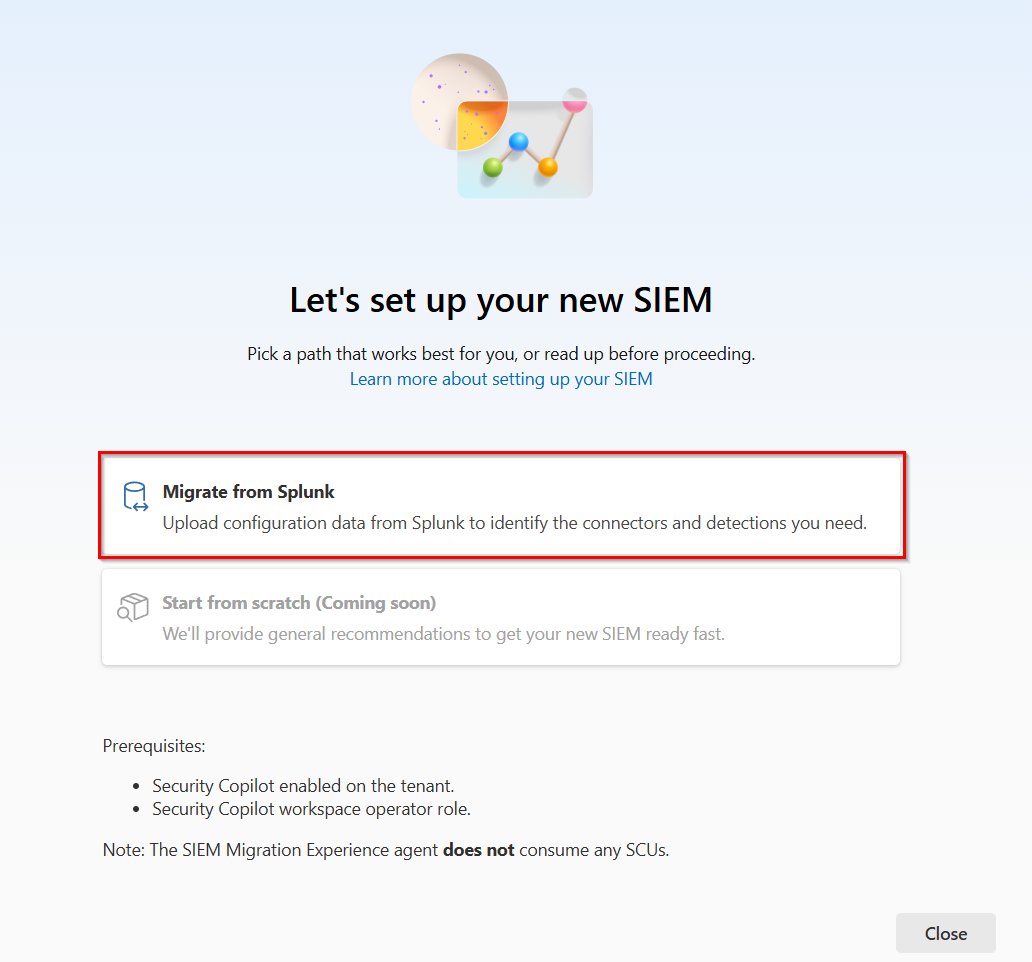
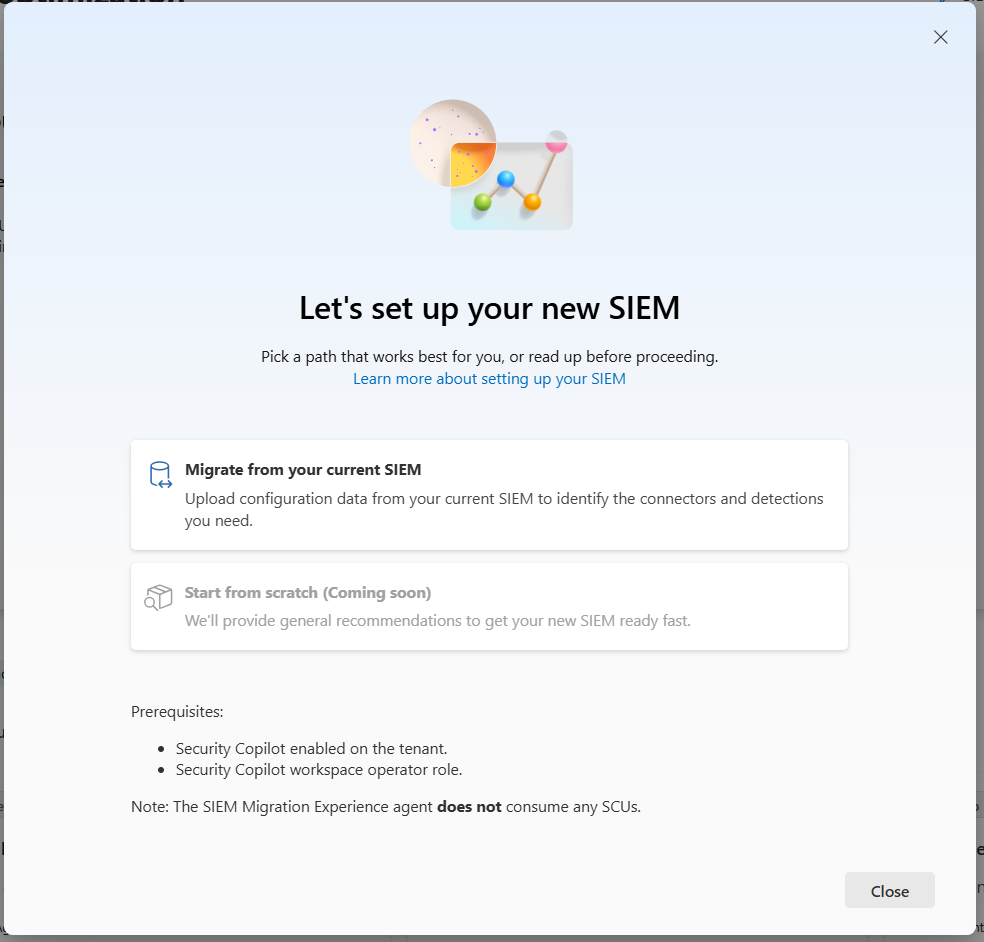
Added QRadar - Margaret Yossi

diff --git a/articles/sentinel/siem-migration.md b/articles/sentinel/siem-migration.md
@@ -15,15 +15,15 @@ appliesto:
 
 # Migrate to Microsoft Sentinel with the SIEM migration experience
 
-The SIEM migration tool analyzes Splunk detections, including custom detections, and recommends best‑fit Microsoft Sentinel detections rules. It also provides recommendations for data connectors, both Microsoft and third-party connectors available in Content Hub to enable the recommend detections. Customers can track the migration by assigning the right status to each recommendation card.
+The SIEM migration tool analyzes Splunk and QRadar detections, including custom detections, and recommends best‑fit Microsoft Sentinel detections rules. It also provides recommendations for data connectors, both Microsoft and third-party connectors available in Content Hub to enable the recommend detections. Customers can track the migration by assigning the right status to each recommendation card.
 
 > [!NOTE]
 > The old migration tool is deprecated. This article describes the current SIEM migration experience.
 
 The SIEM Migration experience includes the following features:
 
-- The experience focuses on migrating Splunk security monitoring to Microsoft Sentinel and mapping out-of-the-box (OOTB) analytics rules wherever possible.
-- The experience supports migration of Splunk detections to Microsoft Sentinel analytics rules.
+- The experience focuses on migrating Splunk and QRadar security monitoring to Microsoft Sentinel and mapping out-of-the-box (OOTB) analytics rules wherever possible.
+- The experience supports migration of Splunk and QRadar detections to Microsoft Sentinel analytics rules.
 
 ## Prerequisites
 
@@ -32,11 +32,13 @@ The SIEM Migration experience includes the following features:
 - <a href="/copilot/security/get-started-security-copilot" target="_blank">Security Copilot</a> enabled in your tenant with at least a [workspace operator role](/copilot/security/authentication#assign-security-copilot-access) assigned
 
 > [!NOTE]
-> Though you need [Security Copilot](https://securitycopilot.microsoft.com/) enabled in your tenant, it doesn't consume any SCUs so it doesn't incur additional costs. To ensure you don't incur any unintentional costs after you set it up, go to **Manage workspace** > **Usage monitoring**, set SCUs to zero, and make sure use overage units is disabled.
+> Though you need [Security Copilot](https://securitycopilot.microsoft.com/) enabled in your tenant, it doesn't consume any SCUs so it doesn't incur additional costs. To ensure you don't incur any unintentional costs after you set it up, go to **Manage workspace** > **Usage monitoring**, set provisioned SCUs to zero, enable *use overage units when needed* and set the max limit to 1 unit per hour. With this setting, the SIEM Migration tool will not consume the overage SCUs, but those SCUs might be consumed by other Security Copilot features. If you want to ensure no other Security Copilot feature can run and consume the overage SCUs, follow the instructions in [Understand authentication in Microsoft Security Copilot](/copilot/security/authentication) to remove all users and groups from the *Security Copilot contributor role* except for the user that will run the SIEM Migration process.
 >
 > :::image type="content" source="./media/siem-migration/monitor-usage.png" alt-text="Screenshot of the Security Copilot usage monitoring settings.":::
 
 ## Export detection rules from your current SIEM
+
+### [Splunk](#tab/splunk)
 
 In the **Search and Reporting** app in Splunk, run the following query:
 
@@ -46,17 +48,17 @@ In the **Search and Reporting** app in Splunk, run the following query:
 
 You need a Splunk admin role to export all Splunk alerts. For more information, see [Splunk role-based user access](https://docs.splunk.com/Documentation/Splunk/9.1.3/Security/Aboutusersandroles).
 
-<!---
-QRadar
+### [QRadar](#tab/qradar)
 
-Export your QRadar rule data as a CSV file, as explained here Exporting rules - IBM Documentation. Two notes regarding the export: 
+Export your QRadar rule data as a CSV file, as explained here [Exporting rules - IBM Documentation](https://go.microsoft.com/fwlink/?linkid=2332524). Two notes regarding the export:
 
-1. The default export includes the alert rules, but not the building blocks which can carry important information. Clear any filter values for the “Rule or Building Block(BB)” to allow both the rules and the BBs to be exported. 
+1. The default export includes the alert rules, but not the building blocks which can carry important information. Clear any filter values for the *Rule or Building Block(BB)* to allow both the rules and the BBs to be exported.
 
-1. Only include the following fields in your export to avoid duplications which can lead to QRadar application freeze: 
+1. Only include the following fields in your export to avoid duplications which can lead to QRadar application freeze:
 
-"Rule name", "Type", "Rule enabled", "Notes", "Action details", "Response details", "Rule response: Event description", "Is rule", "Rule installed", "Rule response: Event name", "Rule: test definition", "Content extension name", "Content category" 
---->
+"Rule name", "Type", "Rule enabled", "Notes", "Action details", "Response details", "Rule response: Event description", "Is rule", "Rule installed", "Rule response: Event name", "Rule: test definition", "Content extension name", "Content category"
+
+---
 
 ## Start the SIEM migration experience
 
@@ -68,13 +70,15 @@ After exporting the rules, do the following:
 
     :::image type="content" source="./media/siem-migration/set-up-new-siem.png" alt-text="Screenshot of the Setup your new SIEM option in the top right corner of the SOC Optimization screen.":::
 
-1. Select **Migrate from Splunk**:
+1. Select **Migrate from your current SIEM**:
 
     :::image type="content" source="./media/siem-migration/migrate.png" alt-text="Screenshot of the Migrate from current SIEM option.":::
 
-1. Upload the configuration data that [you exported from your current SIEM](#export-detection-rules-from-your-current-siem) and select **Next**.
+1. Select the SIEM you are migrating from.
 
-    :::image type="content" source="./media/siem-migration/upload-data.png" alt-text="Screenshot of the Upload file button to upload the exported configuration data.":::
+    :::image type="content" source="./media/siem-migration/select-siem.png" alt-text="Screenshot of the UI asking the user to select the SIEM they are migrating from.":::
+
+1. Upload the configuration data that [you exported from your current SIEM](#export-detection-rules-from-your-current-siem) and select **Next**.
 
     The migration tool analyzes the export and identifies the number of data sources and detection rules in the file you provided. Use this information to confirm that you have the right export.
 
